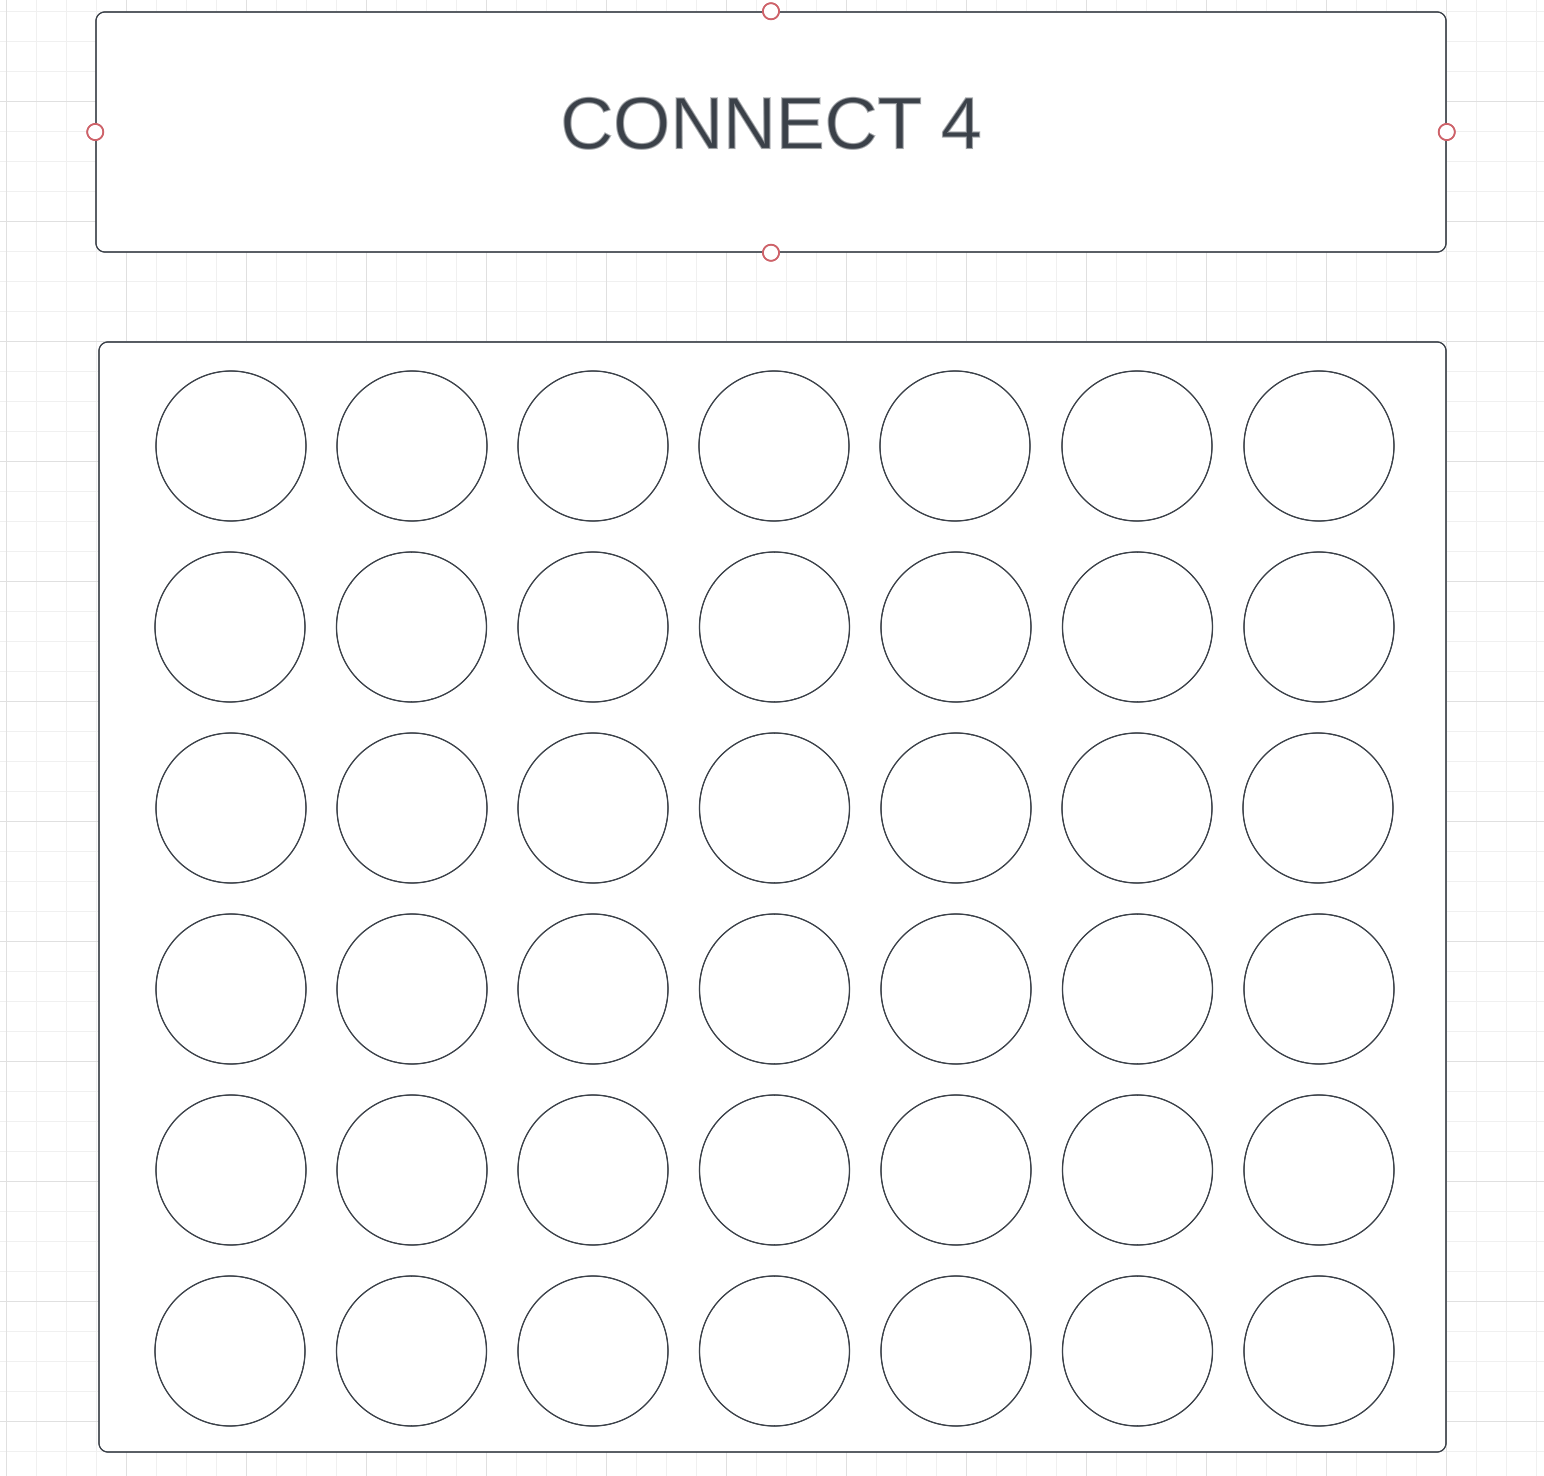
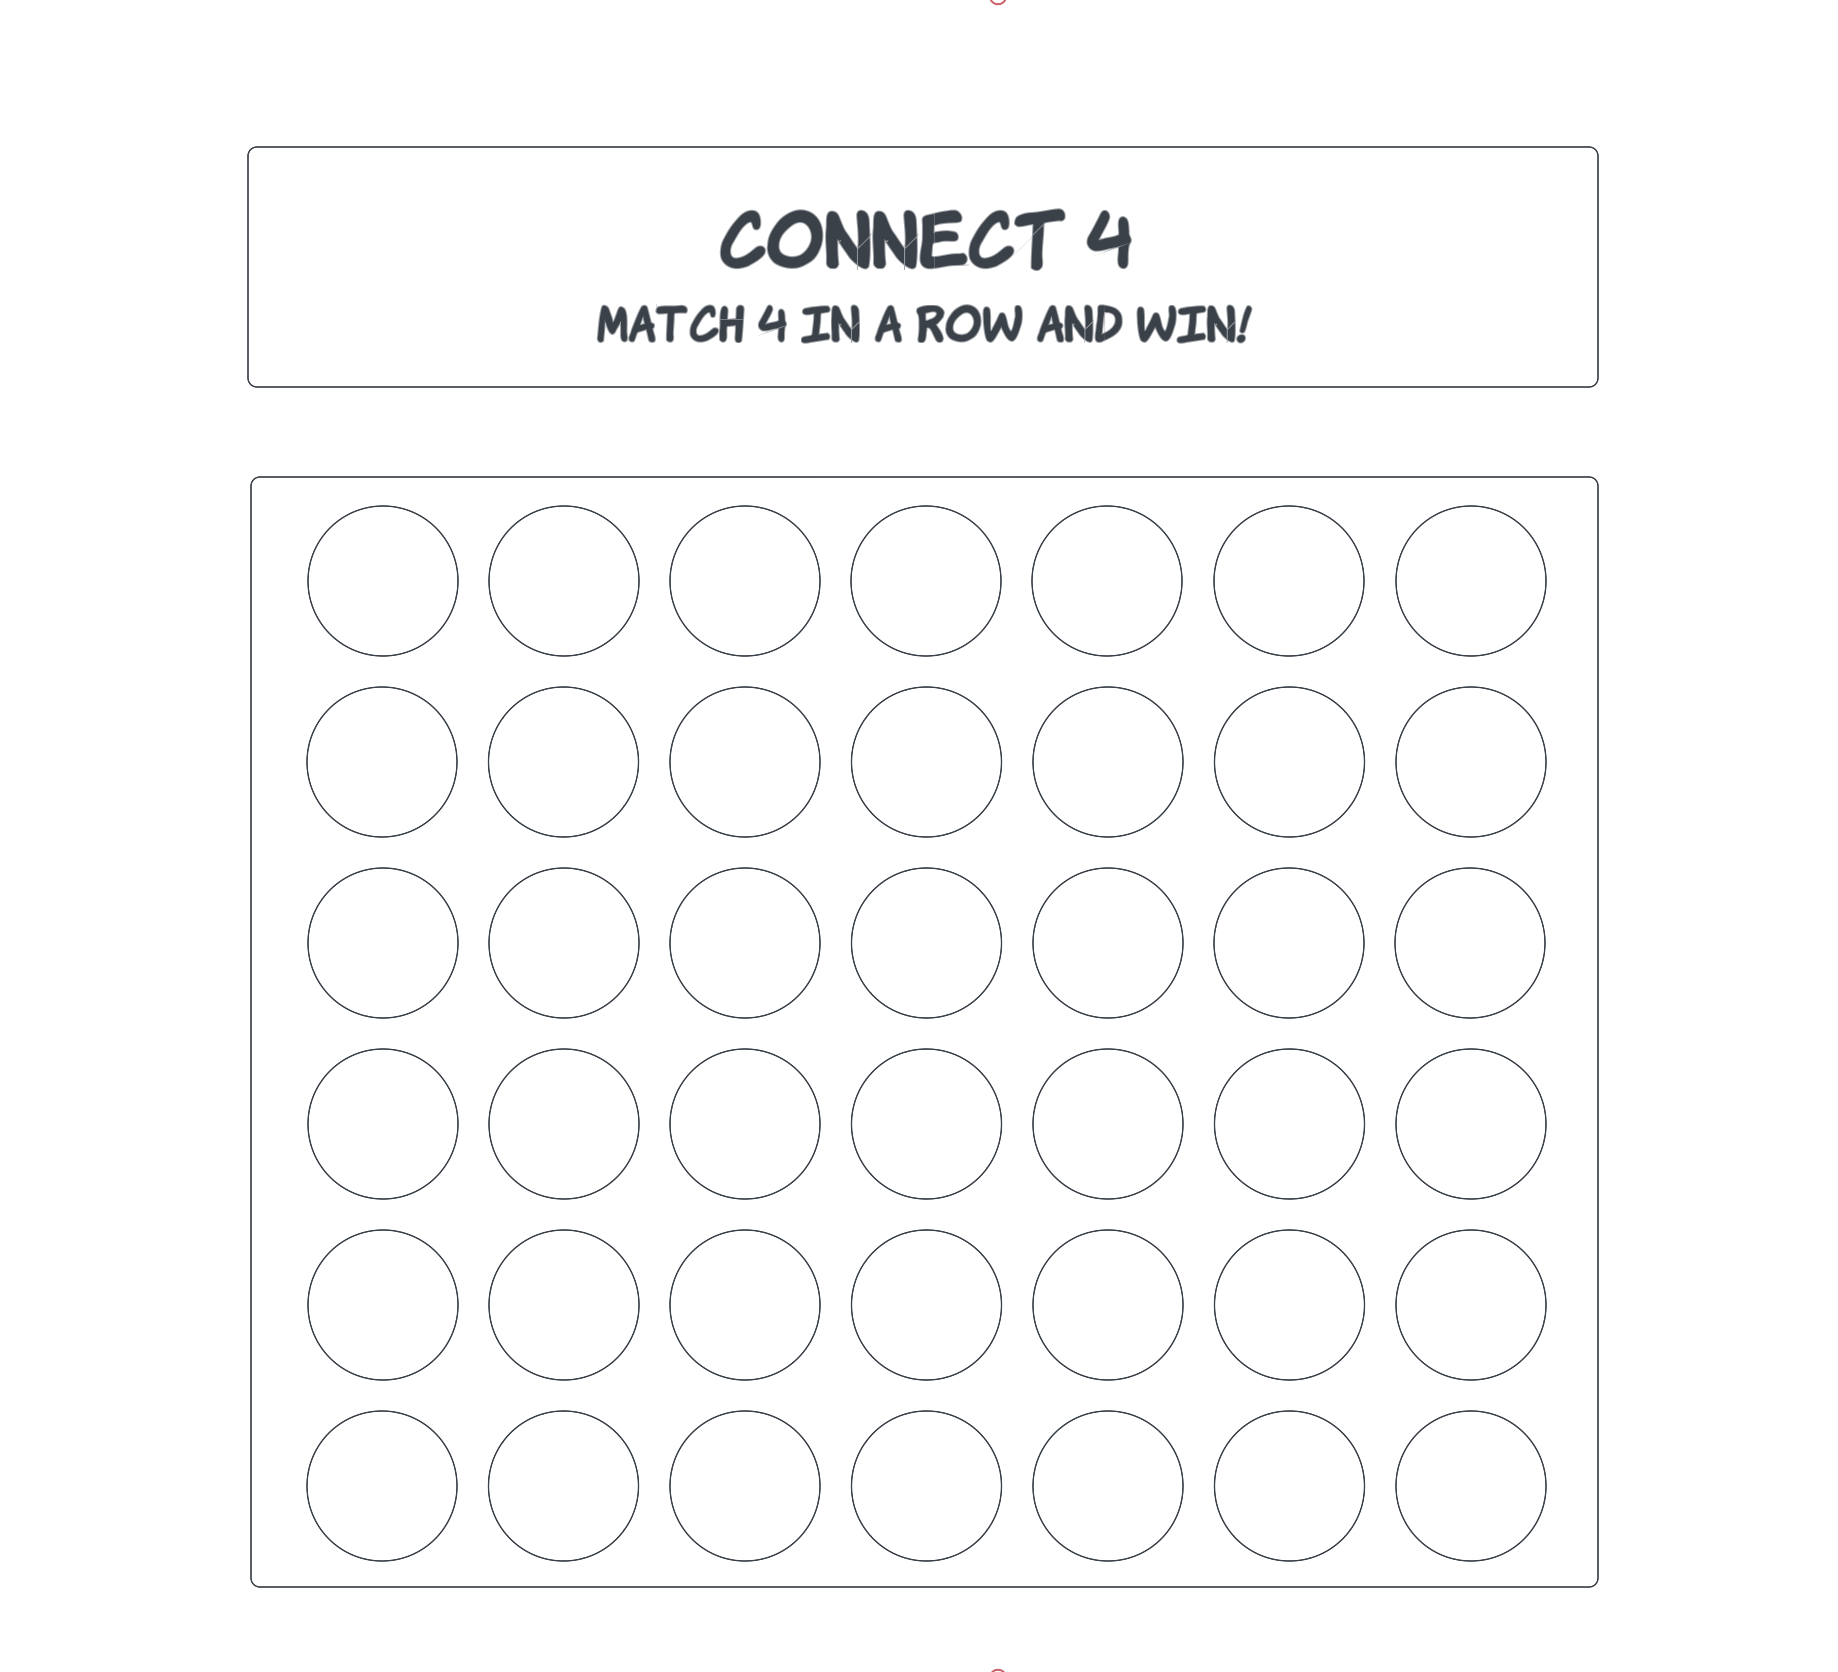
updated approach taken and wireframe

diff --git a/index.html b/index.html
@@ -1,0 +1,14 @@
+<!DOCTYPE html>
+<html lang="en">
+<head>
+    <title>Project 1</title>
+    <link rel="stylesheet" type="text/css" href="styles.css">
+    <script src="https://code.jquery.com/jquery-3.7.0.js" integrity="sha256-JlqSTELeR4TLqP0OG9dxM7yDPqX1ox/HfgiSLBj8+kM=" crossorigin="anonymous"></script>
+    <script defer src="script.js"></script>
+    
+</head>
+<body>
+    <h1>Connect 4</h1>
+    <h2>MATCH 4 IN A ROW AND WIN!</h2>
+</body>
+</html>

diff --git a/styles.css b/styles.css
@@ -1,0 +1,4 @@
+h1 {
+    text-align: center;
+    
+}

diff --git a/script.js b/script.js
@@ -1,0 +1,1 @@
+console.log("Connect 4 is the Best!")

diff --git a/README.md b/README.md
@@ -27,7 +27,7 @@
 
 ![alt text](https://encrypted-tbn0.gstatic.com/images?q=tbn:ANd9GcTv-4bDfk_YlC_i0OLlkbdDzW4w5kpUa3BQh3YQ2RHIZbvst9ibGbDKNZnxp1R7DF3LuXA&usqp=CAU)
 
-Connect 4 is a game that is played by two players. Players choose between yellow or red discs. After deciding who will go first, the player inserts a disc from either end. The objective of the game is to have four matching discs in a row either horizontally, vertically or diagonally. The first player to accomplish that, wins!
+Connect 4 is a game that is played by two players. Players choose between yellow or red discs by choosing what player they want to be. After deciding who will go first, the player inserts a disc into a column. The discs get stacked in each column taking up the available spaces. The objective of the game is to have four matching discs in a row either horizontally, vertically or diagonally. The first player to accomplish that, wins!
 
 
 
@@ -46,30 +46,14 @@ This is a game made from HTML, JS, CSS and jQuery that is similiar to Connect 4.
 
 <!-- GETTING STARTED -->
 ## Approach Taken
-
-This is an example of how you may give instructions on setting up your project locally.
-To get a local copy up and running follow these simple example steps.
+I began by setting up HTML, CSS and Javascript files. I then rendered a page to display the board game. I introduced the idea of having two players with preassigned discs (Player 1= red, Player 2= yellow). I allowed Player 1 to start the game by clicking on a column to drop the first disc. I then allowed Player 2 to drop their disc in any column after Player 1. I allowed both players the ability to either block the other player's moves or try to create their own path to connect four in a row and win the game.
 
 
   
 
 ## Installation
 
-_Below is an example of how you can instruct your audience on installing and setting up your app. This template doesn't rely on any external dependencies or services._
-
-1. Get a free API Key at [https://example.com](https://example.com)
-2. Clone the repo
-   ```sh
-   git clone https://github.com/your_username_/Project-Name.git
-   ```
-3. Install NPM packages
-   ```sh
-   npm install
-   ```
-4. Enter your API in `config.js`
-   ```js
-   const API_KEY = 'ENTER YOUR API';
-   ```
+Download and play the game in your browser. It is a 2 player game.
 
 <p align="right">(<a href="#top">back to top</a>)</p>
 
@@ -82,15 +66,8 @@ _Below is an example of how you can instruct your audience on installing and set
 ## Wire Frames
 
 ![**Project 1 Wireframe**](images/wireframe.jpeg)
-- [x] Add Changelog
-- [x] Add back to top links
-- [ ] Add Additional Templates w/ Examples
-- [ ] Add "components" document to easily copy & paste sections of the readme
-- [ ] Multi-language Support
-    - [ ] Chinese
-    - [ ] Spanish
 
-See the [open issues](https://github.com/othneildrew/Best-README-Template/issues) for a full list of proposed features (and known issues).
+
 
 <p align="right">(<a href="#top">back to top</a>)</p>
 
